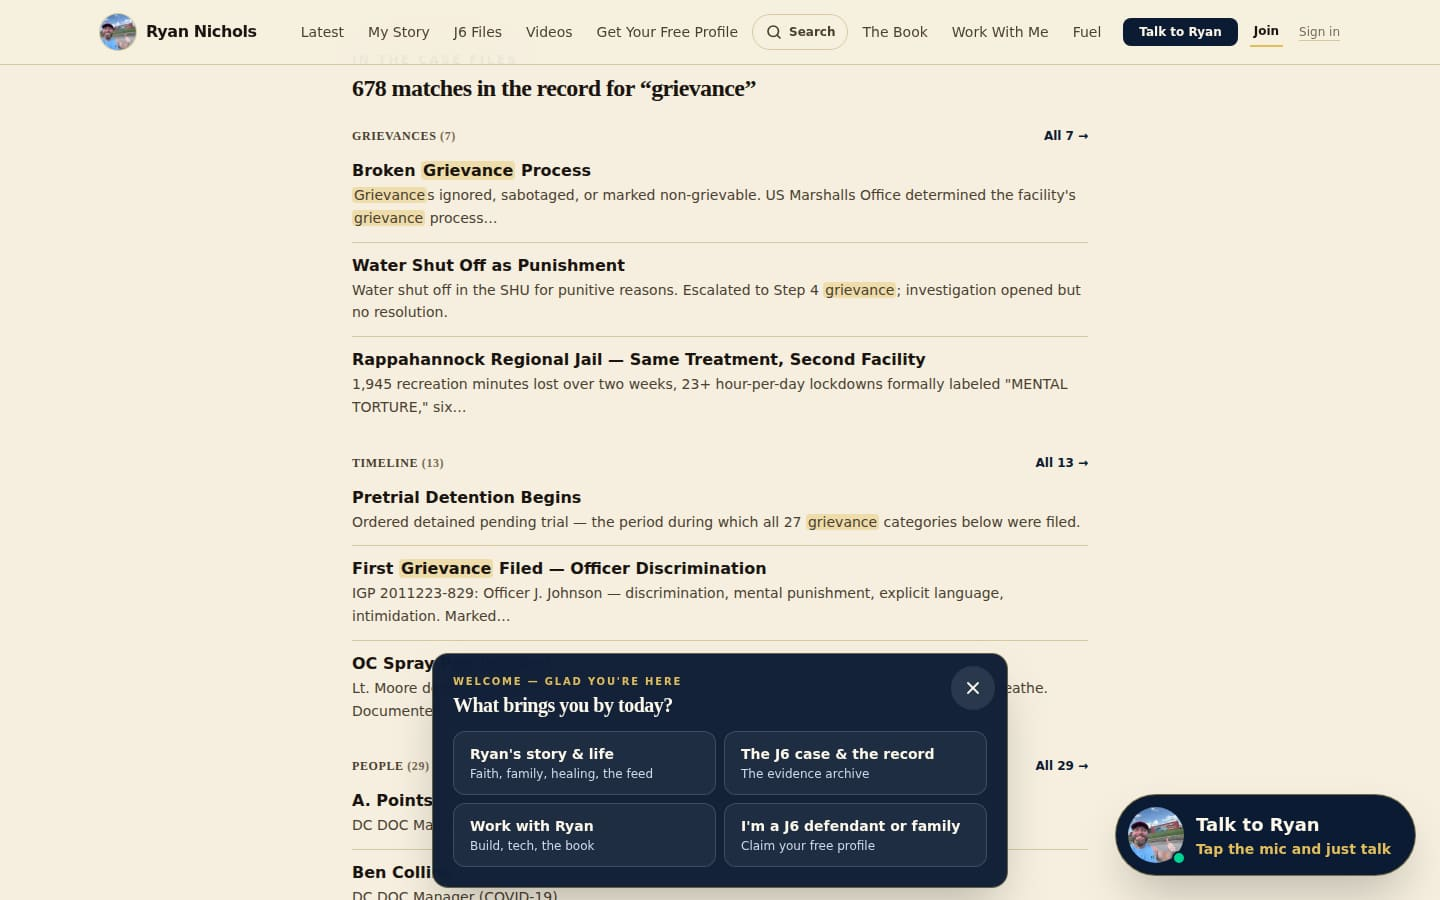
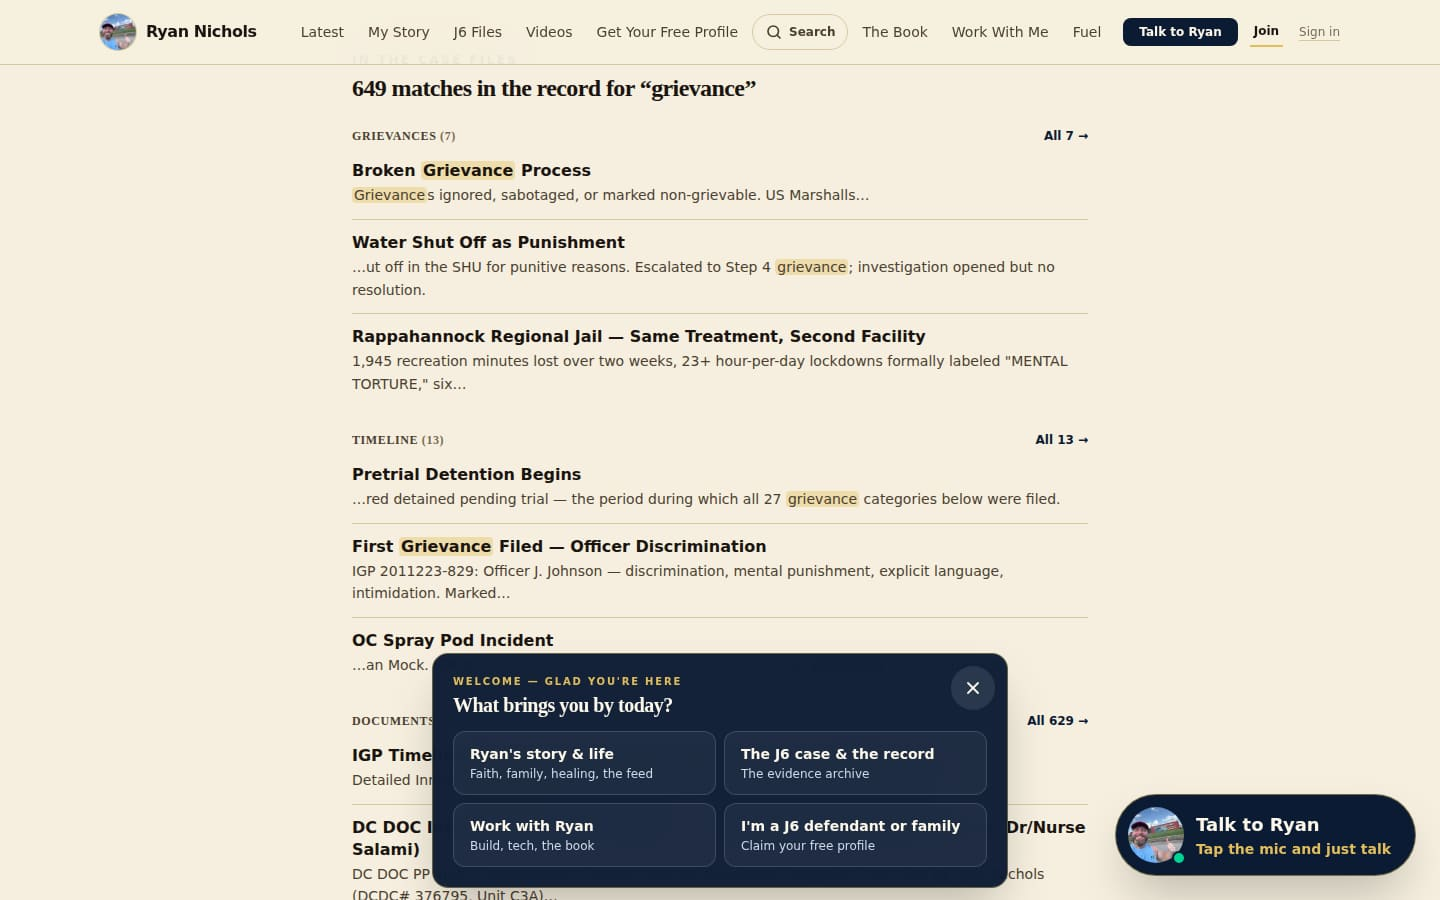
Move 13 review: one result set, one narrow fetch, a snippet with the match in it
Codex, five findings, all applied:
- People come from the directory's own query (getJ6PeoplePage: J6
  defendants by name, case number, or role), so the sample and the
  "All N" link into /case?view=people show the same result set, and a
  docket number finds its defendant. The archive's people predicate gains
  case_number too.
- No full-table fetch per search: the grievances, events, and a slim
  document index (getDocumentsIndex, no transcripts) are one cached
  corpus (unstable_cache, 300s), and people are one narrow request.
  filterArchive is generic over the person and document row types.
- Snippets are taken around the first occurrence of the query when the
  field has one, so the mark is in the sample; a grievance falls back to
  its body, a document to its type and source.
- The focus-order finding is fixed on the Move 11 branch this stacks on.

Claude-Session: https://claude.ai/code/session_013yY82UKXnA5A6346PxQm9y

diff --git a/website/app/search/page.tsx b/website/app/search/page.tsx
@@ -4,18 +4,19 @@ import { format } from "date-fns";
 import { SearchBox } from "@/components/SearchBox";
 import { getSupabaseStaticClient } from "@/lib/supabase/static";
 import { SITE } from "@/lib/site";
+import { unstable_cache } from "next/cache";
 import {
   getGrievances,
-  getPeople,
+  getJ6PeoplePage,
   getEvents,
-  getDocuments,
-  type CaseDocument,
+  getDocumentsIndex,
+  type CaseDocumentIndexRow,
   type CaseEvent,
   type CaseGrievance,
   type CasePerson,
 } from "@/lib/case";
 import { filterArchive } from "@/components/case/archive";
-import { Highlight } from "@/components/case/Highlight";
+import { Highlight, excerptAround } from "@/components/case/Highlight";
 
 export const dynamic = "force-dynamic";
 
@@ -58,6 +59,25 @@ function readQuery(sp: Record<string, string | string[] | undefined>): string {
   return (v ?? "").trim().slice(0, 120);
 }
 
+// The case record the search reads: every public grievance and event, and
+// a slim index of every public document (no transcripts). Fetched once and
+// kept for five minutes across requests, the same ISR window the case
+// archive uses, so an ordinary search does not re-download the record.
+// People are not here: they come from the directory's own server-side
+// query per search (getJ6PeoplePage), which is one narrow request.
+const getCaseCorpus = unstable_cache(
+  async () => {
+    const [grievances, events, documents] = await Promise.all([
+      getGrievances(),
+      getEvents(),
+      getDocumentsIndex(),
+    ]);
+    return { grievances, events, documents };
+  },
+  ["search-case-corpus"],
+  { revalidate: 300 },
+);
+
 export async function generateMetadata({
   searchParams,
 }: {
@@ -91,29 +111,35 @@ export default async function SearchPage({
   let caseHits: CaseHits | null = null;
   if (q.length >= 2) {
     const supabase = getSupabaseStaticClient();
-    const [{ data }, grievances, people, events, documents] = await Promise.all([
+    const [{ data }, corpus, j6] = await Promise.all([
       supabase.rpc("search_posts", { q, max_results: 50 }),
-      getGrievances(),
-      getPeople(),
-      getEvents(),
-      getDocuments(),
+      getCaseCorpus(),
+      // People come from the directory's own query (J6 defendants, by
+      // name, case number, or role), so the sample here and the "All N"
+      // link into /case?view=people show the same result set.
+      getJ6PeoplePage({ claimStatus: "all", q, page: 1, pageSize: 24 }),
     ]);
     results = (data ?? []) as Hit[];
     const found = filterArchive({
       q,
       j6Filter: "all",
-      grievances,
-      people,
-      events,
-      documents,
+      grievances: corpus.grievances,
+      people: [],
+      events: corpus.events,
+      documents: corpus.documents,
       peopleNamed: 0,
     });
     caseHits = {
       grievances: found.filteredGrievances,
       events: found.filteredEvents,
-      people: found.filteredPeople,
+      people: j6.people,
+      peopleTotal: j6.total,
       documents: found.filteredDocuments,
-      total: found.totalHits,
+      total:
+        found.filteredGrievances.length +
+        found.filteredEvents.length +
+        j6.total +
+        found.filteredDocuments.length,
     };
   }
 
@@ -234,8 +260,10 @@ export default async function SearchPage({
 type CaseHits = {
   grievances: CaseGrievance[];
   events: CaseEvent[];
+  // The directory's first page for the query, and its full count.
   people: CasePerson[];
-  documents: CaseDocument[];
+  peopleTotal: number;
+  documents: CaseDocumentIndexRow[];
   total: number;
 };
 
@@ -244,9 +272,14 @@ type CaseHits = {
 const CASE_SAMPLE = 3;
 
 // A snippet is a pointer, not the record: the full text lives on the hit's
-// own page. Clipped before it is marked so a dozen hits stay a few KB.
+// own page. About SNIPPET characters, taken around the first occurrence of
+// the query when the field has one (so the mark is in the sample), else
+// from the field's opening. Clipped before it is marked so a dozen hits
+// stay a few KB.
 const SNIPPET = 120;
-function clip(text: string | null | undefined): string | null {
+function snippet(text: string | null | undefined, q: string): string | null {
+  const around = excerptAround(text, q, Math.floor(SNIPPET / 2));
+  if (around) return around;
   if (!text) return null;
   const t = text.trim();
   return t.length <= SNIPPET ? t : `${t.slice(0, SNIPPET).replace(/\s+\S*$/, "")}…`;
@@ -257,49 +290,56 @@ function clip(text: string | null | undefined): string | null {
 // and one door to the full results on /case.
 function CaseFilesHits({ hits, q }: { hits: CaseHits; q: string }) {
   const encoded = encodeURIComponent(q);
+  // Each section's count is the full result set the "All N" link opens;
+  // the items are its sample. Three sections filter the cached corpus the
+  // way /case?q= does; people carry the directory's own count.
   const sections = [
     {
       key: "grievances",
       label: "Grievances",
       href: `/case?view=grievances&q=${encoded}`,
+      count: hits.grievances.length,
       items: hits.grievances.map((g) => ({
         slug: g.slug,
         href: `/case/grievances/${g.slug}`,
         title: g.title,
-        sub: clip(g.summary),
+        sub: snippet(g.summary, q) ?? snippet(g.body, q),
       })),
     },
     {
       key: "timeline",
       label: "Timeline",
       href: `/case?view=timeline&q=${encoded}`,
+      count: hits.events.length,
       items: hits.events.map((e) => ({
         slug: e.slug,
         href: `/case/events/${e.slug}`,
         title: e.title,
-        sub: clip(e.description),
+        sub: snippet(e.description, q),
       })),
     },
     {
       key: "people",
       label: "People",
       href: `/case?view=people&q=${encoded}`,
+      count: hits.peopleTotal,
       items: hits.people.map((p) => ({
         slug: p.slug,
         href: `/case/people/${p.slug}`,
         title: p.name,
-        sub: p.role,
+        sub: [p.case_number, p.role].filter(Boolean).join(" · ") || null,
       })),
     },
     {
       key: "documents",
       label: "Documents",
       href: `/case?view=documents&q=${encoded}`,
+      count: hits.documents.length,
       items: hits.documents.map((d) => ({
         slug: d.slug,
         href: `/case/documents/${d.slug}`,
         title: d.title,
-        sub: clip(d.description),
+        sub: snippet(d.description, q) ?? ([d.doc_type, d.source].filter(Boolean).join(" · ") || null),
       })),
     },
   ];
@@ -328,22 +368,22 @@ function CaseFilesHits({ hits, q }: { hits: CaseHits; q: string }) {
       ) : (
         <>
           {sections
-            .filter((s) => s.items.length > 0)
+            .filter((s) => s.count > 0)
             .map((s) => (
               <div key={s.key} className="mt-6">
                 <div className="flex items-baseline justify-between gap-3">
                   <h3 className="text-xs font-bold uppercase tracking-wider text-[var(--color-ink-soft)]">
                     {s.label}{" "}
                     <span className="text-[var(--color-muted)]">
-                      ({s.items.length.toLocaleString("en-US")})
+                      ({s.count.toLocaleString("en-US")})
                     </span>
                   </h3>
-                  {s.items.length > CASE_SAMPLE ? (
+                  {s.count > CASE_SAMPLE ? (
                     <Link
                       href={s.href}
                       className="inline-flex min-h-11 items-center gap-1 text-xs font-bold text-[var(--color-navy)] hover:underline sm:min-h-0"
                     >
-                      All {s.items.length.toLocaleString("en-US")}
+                      All {s.count.toLocaleString("en-US")}
                       <span aria-hidden>→</span>
                     </Link>
                   ) : null}

diff --git a/website/components/case/archive.ts b/website/components/case/archive.ts
@@ -79,7 +79,17 @@ export function pageDirectory({
 // Rows per page on the timeline and documents views.
 export const ARCHIVE_PAGE_SIZE = 48;
 
-export function filterArchive({
+// The fields the search reads from a person and a document. filterArchive
+// is generic over them so a caller can pass slimmer rows (the sitewide
+// search's document index carries no transcript) and get the same rows
+// back, typed as it sent them.
+export type SearchablePerson = Pick<
+  CasePerson,
+  "name" | "role" | "agency" | "description" | "case_number" | "is_j6_defendant" | "claim_status"
+>;
+export type SearchableDocument = Pick<CaseDocument, "title" | "description" | "doc_type" | "source">;
+
+export function filterArchive<P extends SearchablePerson, D extends SearchableDocument>({
   q,
   j6Filter,
   grievances,
@@ -91,9 +101,9 @@ export function filterArchive({
   q: string;
   j6Filter: J6Filter;
   grievances: CaseGrievance[];
-  people: CasePerson[];
+  people: P[];
   events: CaseEvent[];
-  documents: CaseDocument[];
+  documents: D[];
   // The public people count from lib/case.ts, shown when nothing is searched.
   peopleNamed: number;
 }) {
@@ -102,9 +112,11 @@ export function filterArchive({
         matchesQuery(q, g.title, g.summary, g.body, g.category)
       )
     : grievances;
+  // The same fields the people directory searches (name, case number,
+  // role), plus the archive's agency and description.
   const filteredPeopleByQ = q
     ? people.filter((p) =>
-        matchesQuery(q, p.name, p.role, p.agency, p.description)
+        matchesQuery(q, p.name, p.case_number, p.role, p.agency, p.description)
       )
     : people;
   const filteredPeople =

diff --git a/website/lib/case.ts b/website/lib/case.ts
@@ -375,6 +375,38 @@ export async function getEventBySlug(slug: string): Promise<CaseEvent | null> {
   return (data ?? null) as CaseEvent | null;
 }
 
+// The columns the sitewide search reads and shows for a document: what
+// filterArchive matches on plus what a result card needs. No transcript,
+// so the whole index is a few hundred KB rather than megabytes and can be
+// held in a cache. Same order as getDocuments().
+const DOCUMENT_INDEX_COLS = "id, slug, title, description, doc_type, source, document_date";
+export type CaseDocumentIndexRow = Pick<
+  CaseDocument,
+  "id" | "slug" | "title" | "description" | "doc_type" | "source" | "document_date"
+>;
+
+export async function getDocumentsIndex(): Promise<CaseDocumentIndexRow[]> {
+  const supabase = getSupabaseStaticClient();
+  const PAGE = 1000;
+  const all: CaseDocumentIndexRow[] = [];
+  for (let from = 0; ; from += PAGE) {
+    const { data, error } = await supabase
+      .from("case_documents")
+      .select(DOCUMENT_INDEX_COLS)
+      .eq("visibility", "public")
+      .eq("archived", false)
+      .order("document_date", { ascending: false, nullsFirst: false })
+      .order("relevance", { ascending: false })
+      .order("title", { ascending: true })
+      .order("id", { ascending: true })
+      .range(from, from + PAGE - 1);
+    if (error || !data || data.length === 0) break;
+    all.push(...(data as CaseDocumentIndexRow[]));
+    if (data.length < PAGE) break;
+  }
+  return all;
+}
+
 export async function getDocuments(): Promise<CaseDocument[]> {
   // Paginate past PostgREST's 1000-row server cap.
   const supabase = getSupabaseStaticClient();
